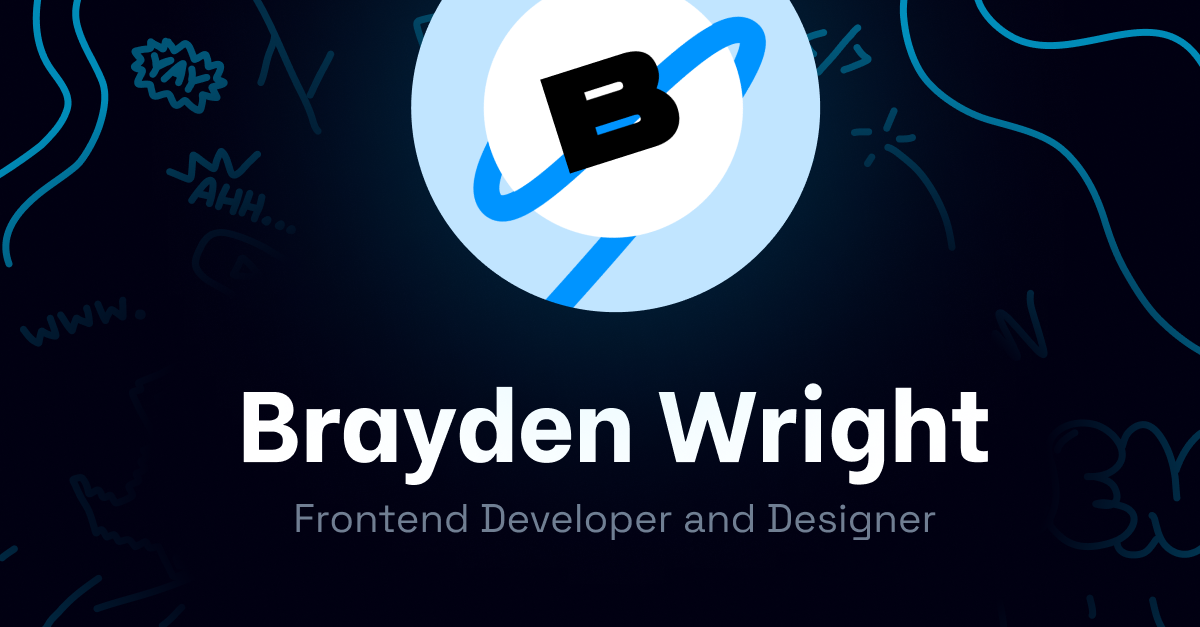
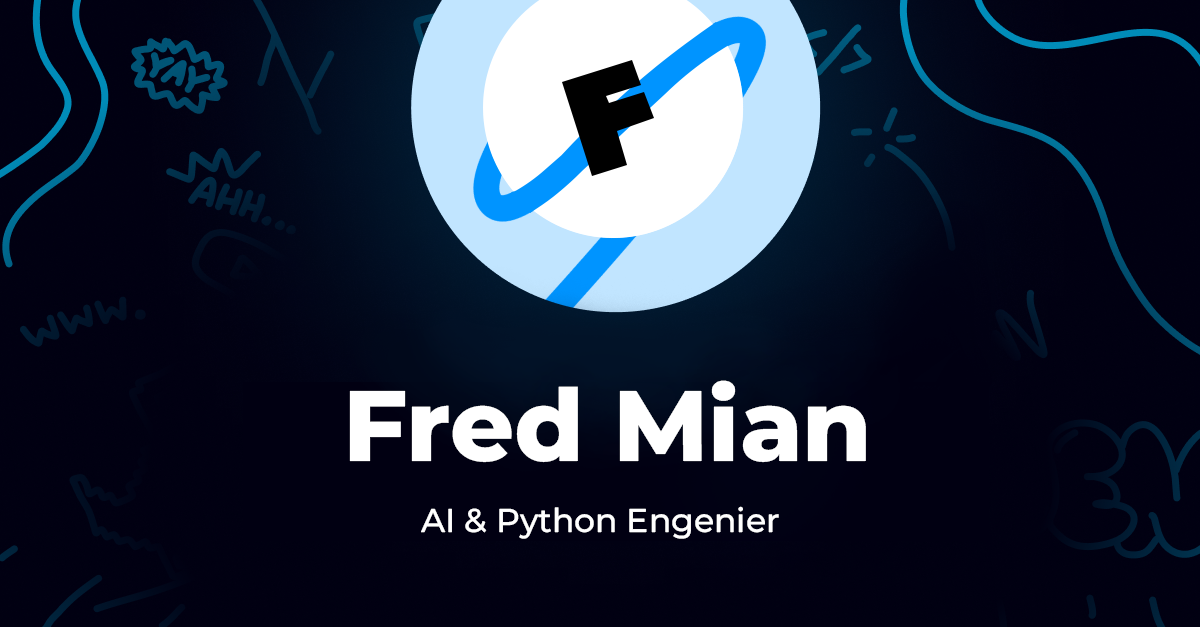
added Fred Thumbnail image

Changed region(s): [[0.185, 0.6061, 0.8325, 0.7879], [0.2467, 0.7879, 0.8017, 0.8788], [0.4317, 0.0606, 0.5858, 0.2727]]

diff --git a/components/utility/Page.tsx b/components/utility/Page.tsx
@@ -7,10 +7,9 @@ import React, { ReactChildren } from "react";
 function Page({ currentPage, meta: { title, desc }, children }: PageProps) {
   const pageTitle = `${
     currentPage === "Home"
-      ? "Brayden Wright - Web Developer, Designer, Creator."
-      : `${currentPage} - BraydenTW.io`
+      ? "Fred Mian - AI & Python Engineer."
+      : `${currentPage} - https://fredmian.netlify.app`
   }`;
-  console.log(currentPage);
   return (
     <div
       className="w-full m-auto flex flex-col items-center justify-center min-h-screen opening-box-animate-paddin text-white overflow-hidden md:overflow-visible"
@@ -41,21 +40,21 @@ function Page({ currentPage, meta: { title, desc }, children }: PageProps) {
         <meta name="description" content={desc} />
 
         <meta property="og:type" content="website" />
-        <meta property="og:url" content="https://braydentw.io/" />
+        <meta property="og:url" content="https://fredmian.netlify.app/" />
         <meta property="og:title" content={pageTitle} />
         <meta property="og:description" content={desc} />
         <meta
           property="og:image"
-          content="https://braydentw.io/static/misc/og.png"
+          content="https://fredmian.netlify.app/static/misc/og.png"
         />
 
         <meta property="twitter:card" content="summary_large_image" />
-        <meta property="twitter:url" content="https://braydentw.io/" />
+        <meta property="twitter:url" content="https://fredmian.netlify.app/" />
         <meta property="twitter:title" content={pageTitle} />
         <meta property="twitter:description" content={desc} />
         <meta
           property="twitter:image"
-          content="https://braydentw.io/static/misc/og.png"
+          content="https://fredmian.netlify.app/static/misc/og.png"
         ></meta>
         <script
           async

diff --git a/components/home/CTA.tsx b/components/home/CTA.tsx
@@ -9,7 +9,7 @@ function CTA() {
           Interested in Working Together?
         </h2>
         <a
-          href="mailto:contact@braydentw.io"
+          href="mailto:fredmian3@gmail.com"
           className="cursor-pointer font-bold whitespace-nowrap 
         mt-6 px-8 py-3 text-white border-2 rounded-full border-white bg-bg hover:bg-fun-pink hover:border-fun-pink transition-colors"
         >

diff --git a/README.md b/README.md
@@ -1,6 +1,6 @@
-# **[braydentw.io](https://braydentw.io)**
+# **[FredMian.io](https://fredmian.netlify.app/)**
 
-Hey there! I'm Brayden and this is my lovely lovely portfolio built using **React, NextJS, and TailwindCSS**!
+Hey there! I'm Fred Mian and this is my lovely lovely portfolio built using **React, NextJS, and TailwindCSS**!
 
 ## Guidelines
 
@@ -8,12 +8,9 @@ Hey there! I'm Brayden and this is my lovely lovely portfolio built using **Reac
 
 1. You can **use** this code and style **as inspiration**.
 2. **Please do not copy it directly**.
-3. **Giving credit** to (@BraydenTW) the author **is appreciated**.
+3. **Giving credit** to (@FredMianTW) the author **is appreciated**.
 
 Doing so makes it better for everyone here on this platform and respects what everyone has made. **Please be you and make yourself unique from the rest!** ✨
 
 <hr/>
-<a href="https://www.buymeacoffee.com/braydenw" target="_blank"><img src="./public/static/misc/buy-me-a-coffee.svg" alt="Buy Me A Coffee: @BraydenW" width="160"></a>&nbsp;
-<a href="https://paypal.me/braydentw" target="_blank"><img src="./public/static/misc/paypal.svg" alt="PayPal: @BraydenTW" width="160"></a>
-<br/>
 <p>Thank you so much for your support. 💙</p>
